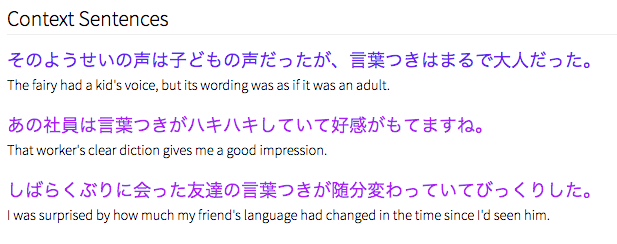
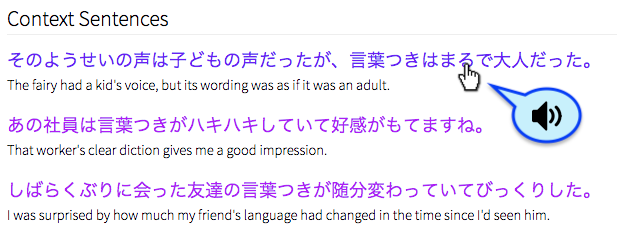
More! Rearranged names of .md's, page order

Changed region(s): [[0.7391, 0.2582, 0.9546, 0.6025]]

diff --git a/_site/projects.html b/_site/projects.html
@@ -5,19 +5,21 @@
     <meta charset='utf-8'>
     <meta http-equiv="X-UA-Compatible" content="IE=edge">
     <meta name="viewport" content="width=device-width,maximum-scale=2">
-    <link rel="stylesheet" type="text/css" media="screen" href="/assets/css/style.css?v="><link rel="stylesheet" type="text/css" media="screen" href="/assets/css/index.css"><link rel="apple-touch-icon" sizes="180x180" href="assets/images/apple-touch-icon.png">
+    <link rel="stylesheet" type="text/css" media="screen" href="/assets/css/style.css?v="><link rel="stylesheet" type="text/css" media="screen" href="/assets/css/projects.css"><link rel="apple-touch-icon" sizes="180x180" href="assets/images/apple-touch-icon.png">
     <link rel="icon" type="image/png" sizes="32x32" href="assets/images/favicon-32x32.png">
     <link rel="icon" type="image/png" sizes="16x16" href="assets/images/favicon-16x16.png">
-    <link rel="manifest" href="/site.webmanifest"><!-- Begin Jekyll SEO tag v2.5.0 -->
-<title>Rob Keleher</title>
+    <link rel="manifest" href="/site.webmanifest">
+
+    <script type="text/javascript" src="https://platform.linkedin.com/badges/js/profile.js" async defer></script><!-- Begin Jekyll SEO tag v2.5.0 -->
+<title>Projects | Rob Keleher</title>
 <meta name="generator" content="Jekyll v3.8.5" />
-<meta property="og:title" content="Rob Keleher" />
+<meta property="og:title" content="Projects" />
 <meta property="og:locale" content="en_US" />
 <link rel="canonical" href="http://localhost:4000/projects.html" />
 <meta property="og:url" content="http://localhost:4000/projects.html" />
 <meta property="og:site_name" content="Rob Keleher" />
 <script type="application/ld+json">
-{"url":"http://localhost:4000/projects.html","headline":"Rob Keleher","@type":"WebPage","@context":"http://schema.org"}</script>
+{"url":"http://localhost:4000/projects.html","headline":"Projects","@type":"WebPage","@context":"http://schema.org"}</script>
 <!-- End Jekyll SEO tag -->
 </head>
 
@@ -53,10 +55,12 @@
 <h3 id="wanikani-enhanced-mobile-design-userscript"><a href="https://gist.github.com/tryforceful/ff2c36baddf2a5029aa1cf03215d7880#file-tryf-wk-enhnaced-mobile-css-userscript-js">WaniKani Enhanced Mobile Design</a> <span class="label label-info userscript_badge"><a href="https://www.tampermonkey.net">Userscript</a></span></h3>
 <p>Overwrites existing mobile viewport CSS stylings of <a href="http://www.wanikani.com">wanikani.com</a> in review and lesson mode, making the site more mobile-friendly.</p>
 
+<p><img class="col-md-offset-1 img-responsive" style="max-height: 300px" src="assets/images/wk/wk_mobile_css_4.png" /></p>
+
 <h3 id="wanikani-clickable-popover--study-assistant-userscript"><a href="https://gist.github.com/tryforceful/5a2682f76b359ba283913eaebe34f8e6">WaniKani Clickable Popover &amp; Study Assistant</a> <span class="label label-info userscript_badge"><a href="https://www.tampermonkey.net">Userscript</a></span></h3>
 <p>On WaniKani reviews and lessons, shows reading &amp; translation info in a popover when hovering over quiz kanji/vocab words. Also provides a clickable link to <a href="http://www.jisho.org">jisho.org</a> for the relevant quiz item.</p>
 
-<p><img class="col-md-offset-1 img-responsive" style="max-height: 300px" src="assets/images/wk/wk_popover_2.png" /></p>
+<p><img class="col-md-offset-1 img-responsive" style="max-height: 300px" src="assets/images/wk/wk_popover_3.png" /></p>
 
 <h3 id="wanikani-audio-for-japanese-example-sentences-userscript"><a href="https://gist.github.com/tryforceful/e7c44b2e715ae3e7679b7e108d84d2b0">WaniKani Audio for Japanese Example Sentences</a> <span class="label label-info userscript_badge"><a href="https://www.tampermonkey.net">Userscript</a></span></h3>
 <p>Adds audio talkback support in male and female Japanese voices to example sentences on WaniKani lessons and reviews.</p>

diff --git a/_site/index.html b/_site/index.html
@@ -5,19 +5,21 @@
     <meta charset='utf-8'>
     <meta http-equiv="X-UA-Compatible" content="IE=edge">
     <meta name="viewport" content="width=device-width,maximum-scale=2">
-    <link rel="stylesheet" type="text/css" media="screen" href="/assets/css/style.css?v="><link rel="stylesheet" type="text/css" media="screen" href="/assets/css/about.css"><link rel="apple-touch-icon" sizes="180x180" href="assets/images/apple-touch-icon.png">
+    <link rel="stylesheet" type="text/css" media="screen" href="/assets/css/style.css?v="><link rel="stylesheet" type="text/css" media="screen" href="/assets/css/home.css"><link rel="apple-touch-icon" sizes="180x180" href="assets/images/apple-touch-icon.png">
     <link rel="icon" type="image/png" sizes="32x32" href="assets/images/favicon-32x32.png">
     <link rel="icon" type="image/png" sizes="16x16" href="assets/images/favicon-16x16.png">
-    <link rel="manifest" href="/site.webmanifest"><!-- Begin Jekyll SEO tag v2.5.0 -->
-<title>About Me | Rob Keleher</title>
+    <link rel="manifest" href="/site.webmanifest">
+
+    <script type="text/javascript" src="https://platform.linkedin.com/badges/js/profile.js" async defer></script><!-- Begin Jekyll SEO tag v2.5.0 -->
+<title>Home | Rob Keleher</title>
 <meta name="generator" content="Jekyll v3.8.5" />
-<meta property="og:title" content="About Me" />
+<meta property="og:title" content="Home" />
 <meta property="og:locale" content="en_US" />
 <link rel="canonical" href="http://localhost:4000/" />
 <meta property="og:url" content="http://localhost:4000/" />
 <meta property="og:site_name" content="Rob Keleher" />
 <script type="application/ld+json">
-{"url":"http://localhost:4000/","headline":"About Me","name":"Rob Keleher","@type":"WebSite","@context":"http://schema.org"}</script>
+{"url":"http://localhost:4000/","headline":"Home","name":"Rob Keleher","@type":"WebSite","@context":"http://schema.org"}</script>
 <!-- End Jekyll SEO tag -->
 </head>
 

diff --git a/_site/contact.html b/_site/contact.html
@@ -8,16 +8,18 @@
     <link rel="stylesheet" type="text/css" media="screen" href="/assets/css/style.css?v="><link rel="apple-touch-icon" sizes="180x180" href="assets/images/apple-touch-icon.png">
     <link rel="icon" type="image/png" sizes="32x32" href="assets/images/favicon-32x32.png">
     <link rel="icon" type="image/png" sizes="16x16" href="assets/images/favicon-16x16.png">
-    <link rel="manifest" href="/site.webmanifest"><!-- Begin Jekyll SEO tag v2.5.0 -->
-<title>Rob Keleher</title>
+    <link rel="manifest" href="/site.webmanifest">
+
+    <script type="text/javascript" src="https://platform.linkedin.com/badges/js/profile.js" async defer></script><!-- Begin Jekyll SEO tag v2.5.0 -->
+<title>Contact | Rob Keleher</title>
 <meta name="generator" content="Jekyll v3.8.5" />
-<meta property="og:title" content="Rob Keleher" />
+<meta property="og:title" content="Contact" />
 <meta property="og:locale" content="en_US" />
 <link rel="canonical" href="http://localhost:4000/contact.html" />
 <meta property="og:url" content="http://localhost:4000/contact.html" />
 <meta property="og:site_name" content="Rob Keleher" />
 <script type="application/ld+json">
-{"url":"http://localhost:4000/contact.html","headline":"Rob Keleher","@type":"WebPage","@context":"http://schema.org"}</script>
+{"url":"http://localhost:4000/contact.html","headline":"Contact","@type":"WebPage","@context":"http://schema.org"}</script>
 <!-- End Jekyll SEO tag -->
 </head>
 
@@ -51,6 +53,8 @@
         <h1 id="contact-me">Contact Me</h1>
 
 <p>Email me at <a href="mailto:hello@robkeleher.com">hello@robkeleher.com</a></p>
+
+<div class="LI-profile-badge" data-version="v1" data-size="large" data-locale="en_US" data-type="horizontal" data-theme="dark" data-vanity="robert-keleher"><a class="LI-simple-link" href="https://jp.linkedin.com/in/robert-keleher?trk=profile-badge">Robert Keleher</a></div>
 
       </section>
     </div>

diff --git a/_site/resume.html b/_site/resume.html
@@ -8,16 +8,18 @@
     <link rel="stylesheet" type="text/css" media="screen" href="/assets/css/style.css?v="><link rel="apple-touch-icon" sizes="180x180" href="assets/images/apple-touch-icon.png">
     <link rel="icon" type="image/png" sizes="32x32" href="assets/images/favicon-32x32.png">
     <link rel="icon" type="image/png" sizes="16x16" href="assets/images/favicon-16x16.png">
-    <link rel="manifest" href="/site.webmanifest"><!-- Begin Jekyll SEO tag v2.5.0 -->
-<title>Rob Keleher</title>
+    <link rel="manifest" href="/site.webmanifest">
+
+    <script type="text/javascript" src="https://platform.linkedin.com/badges/js/profile.js" async defer></script><!-- Begin Jekyll SEO tag v2.5.0 -->
+<title>Résumé | Rob Keleher</title>
 <meta name="generator" content="Jekyll v3.8.5" />
-<meta property="og:title" content="Rob Keleher" />
+<meta property="og:title" content="Résumé" />
 <meta property="og:locale" content="en_US" />
 <link rel="canonical" href="http://localhost:4000/resume.html" />
 <meta property="og:url" content="http://localhost:4000/resume.html" />
 <meta property="og:site_name" content="Rob Keleher" />
 <script type="application/ld+json">
-{"url":"http://localhost:4000/resume.html","headline":"Rob Keleher","@type":"WebPage","@context":"http://schema.org"}</script>
+{"url":"http://localhost:4000/resume.html","headline":"Résumé","@type":"WebPage","@context":"http://schema.org"}</script>
 <!-- End Jekyll SEO tag -->
 </head>
 
@@ -48,7 +50,9 @@
 </div><!-- MAIN CONTENT -->
     <div id="main_content_wrap" class="outer">
       <section id="main_content" class="inner">
-        <h1 id="résumé-coming-soon">Résumé: Coming Soon!</h1>
+        <h1 id="résumé">Résumé</h1>
+
+<p class="text-danger">Coming Soon</p>
 
 <h3 id="work-experience">Work Experience</h3>
 

diff --git a/_site/assets/css/home.css b/_site/assets/css/home.css
@@ -2,8 +2,11 @@
   list-style-type: none; }
   .interests li {
     margin-bottom: 5px; }
+    @media (min-width: 992px) {
+      .interests li {
+        font-size: 120%; } }
   .interests .emoji {
-    vertical-align: sub;
+    vertical-align: text-bottom;
     margin-right: 10px; }
     @media (min-width: 768px) {
       .interests .emoji {

diff --git a/assets/css/home.scss b/assets/css/home.scss
@@ -5,9 +5,12 @@
     list-style-type: none;
     li {
         margin-bottom: 5px;
+        @media (min-width: 992px){
+            font-size: 120%;
+        }
     }
     .emoji {
-        vertical-align: sub;
+        vertical-align: text-bottom;
         margin-right: 10px;
         @media (min-width: 768px) {
             height: 30px;

diff --git a/_layouts/default.html b/_layouts/default.html
@@ -15,6 +15,7 @@
     <link rel="icon" type="image/png" sizes="16x16" href="assets/images/favicon-16x16.png">
     <link rel="manifest" href="/site.webmanifest">
 
+    <script type="text/javascript" src="https://platform.linkedin.com/badges/js/profile.js" async defer></script>
   {%- seo -%}
   </head>
 

diff --git a/_site/assets/css/projects.css b/_site/assets/css/projects.css
@@ -10,3 +10,6 @@ footer .footer_copyright {
 .label {
   font-size: 60%;
   vertical-align: middle; }
+
+#main_content h3:not(:first-of-type) {
+  margin-top: 50px; }

diff --git a/assets/css/projects.scss b/assets/css/projects.scss
@@ -18,3 +18,9 @@ footer {
     font-size: 60%;
     vertical-align: middle;
 }
+
+#main_content {
+    h3:not(:first-of-type) {
+        margin-top: 50px;
+    }
+}

diff --git a/projects.md b/projects.md
@@ -1,8 +1,8 @@
 ---
 # I guess I have to do this?
 layout: default
-sass_file: index
-#title: Rob Keleher!!!
+sass_file: projects
+title: Projects
 ---
 
 ## <span class="github-icon img-rounded"><img class="img-rounded" alt="GitHub" src="assets/images/blacktocat.png"/></span> GitHub Projects
@@ -10,10 +10,12 @@ sass_file: index
 ### [WaniKani Enhanced Mobile Design](https://gist.github.com/tryforceful/ff2c36baddf2a5029aa1cf03215d7880#file-tryf-wk-enhnaced-mobile-css-userscript-js) {% include userscript.html %}
 Overwrites existing mobile viewport CSS stylings of [wanikani.com](http://www.wanikani.com) in review and lesson mode, making the site more mobile-friendly.
 
+<img class="col-md-offset-1 img-responsive" style="max-height: 300px" src="assets/images/wk/wk_mobile_css_4.png">
+
 ### [WaniKani Clickable Popover &amp; Study Assistant](https://gist.github.com/tryforceful/5a2682f76b359ba283913eaebe34f8e6) {% include userscript.html %}
 On WaniKani reviews and lessons, shows reading & translation info in a popover when hovering over quiz kanji/vocab words. Also provides a clickable link to [jisho.org](http://www.jisho.org) for the relevant quiz item.
 
-<img class="col-md-offset-1 img-responsive" style="max-height: 300px" src="assets/images/wk/wk_popover_2.png">
+<img class="col-md-offset-1 img-responsive" style="max-height: 300px" src="assets/images/wk/wk_popover_3.png">
 
 ### [WaniKani Audio for Japanese Example Sentences](https://gist.github.com/tryforceful/e7c44b2e715ae3e7679b7e108d84d2b0) {% include userscript.html %}
 Adds audio talkback support in male and female Japanese voices to example sentences on WaniKani lessons and reviews.

diff --git a/contact.md b/contact.md
@@ -1,7 +1,10 @@
 ---
 layout: default
+title: Contact
 ---
 
 # Contact Me
 
 Email me at <a href="mailto:hello@robkeleher.com">hello@robkeleher.com</a>
+
+<div class="LI-profile-badge"  data-version="v1" data-size="large" data-locale="en_US" data-type="horizontal" data-theme="dark" data-vanity="robert-keleher"><a class="LI-simple-link" href='https://jp.linkedin.com/in/robert-keleher?trk=profile-badge'>Robert Keleher</a></div>

diff --git a/resume.md b/resume.md
@@ -1,9 +1,10 @@
 ---
-
+title: Résumé
 ---
 
-# Résumé: Coming Soon!
+# Résumé
 
+<p class="text-danger">Coming Soon</p>
 
 ### Work Experience
 
